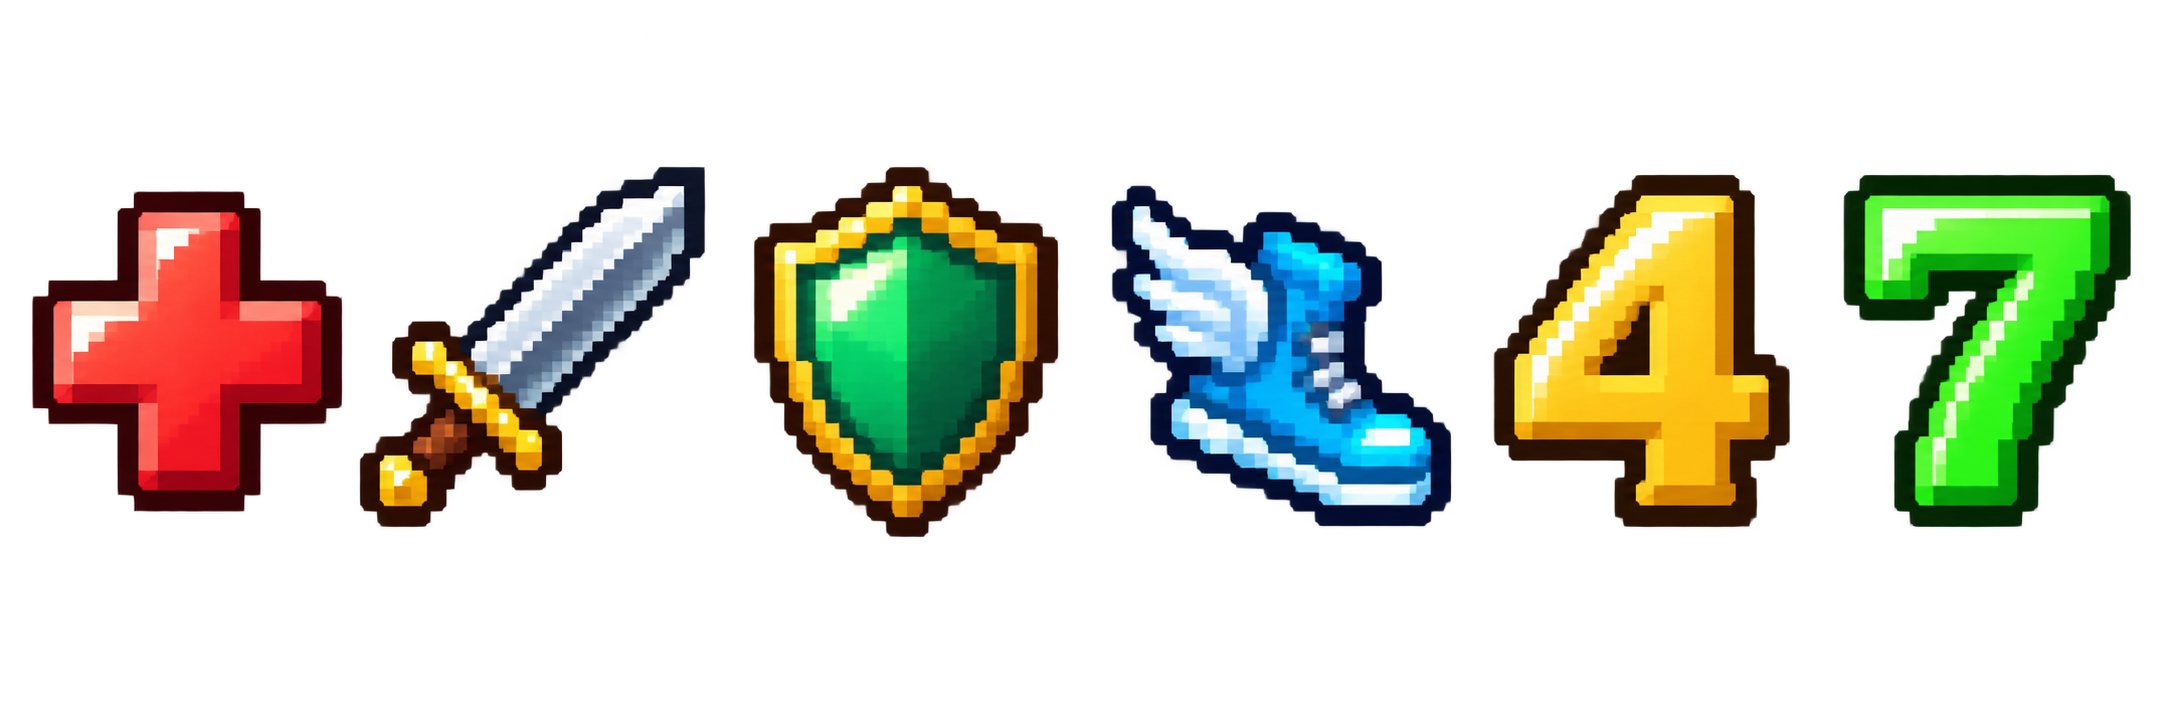
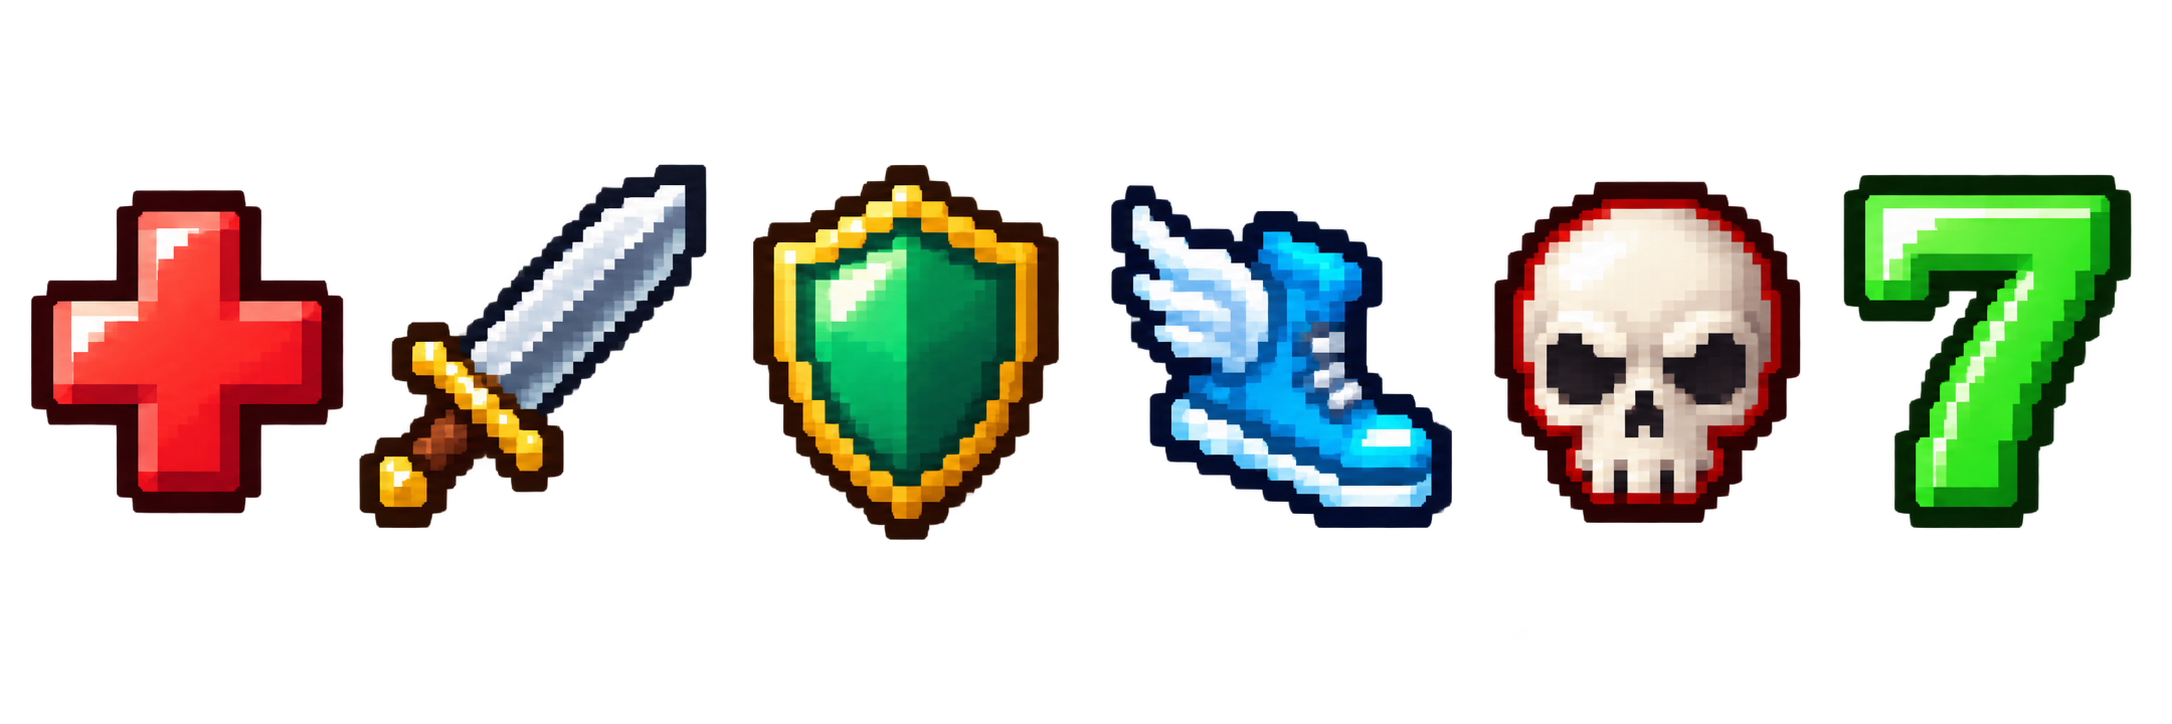
도박꾼 밸런스 패치 이제 777잭팟 사운드 넣음

diff --git a/Assets/JJW/Script/Jackpot/GamblerSlotRoulette.cs b/Assets/JJW/Script/Jackpot/GamblerSlotRoulette.cs
@@ -29,7 +29,7 @@ namespace JJW.Script.Jackpot
         [SerializeField] private AudioClip reelStopSound;
         [SerializeField, Range(0f, 1f)] private float reelStopVolume = 0.7f;
 
-        private const string SymbolSheetPath = "GamblerSlot/SlotSymbolsSkull";
+        private const string SymbolSheetPath = "GamblerSlot/SlotSymbols";
         private const string FramePath = "GamblerSlot/SlotFrame";
 
         private readonly Queue<SpinRequest> spinQueue = new Queue<SpinRequest>();

diff --git a/Assets/JJW/Script/GamblerCoinShooter.cs b/Assets/JJW/Script/GamblerCoinShooter.cs
@@ -13,7 +13,7 @@ public class GamblerCoinShooter : MonoBehaviour, ICoinDamageUp
     [Header("Fire Settings")]
     [SerializeField, Min(0f)] private float fireCooldown = 0.2f;
     [SerializeField, Min(0f)] private float spawnOffset = 0.15f;
-    [SerializeField] private float coinDamage = 20f;
+    [SerializeField] private float coinDamage = 15f;
     [SerializeField] private float damageMultiplier = 1f;
 
     private float nextFireTime;

diff --git a/Assets/JJW/Script/Jackpot/JackpotDivision.cs b/Assets/JJW/Script/Jackpot/JackpotDivision.cs
@@ -38,7 +38,7 @@ namespace JJW.Script.Jackpot
         [SerializeField] private float maximum777Chance = 10f;
 
         [Header("Guaranteed Jackpot Augment")]
-        [SerializeField] private int requiredWinningCount = 20;
+        [SerializeField] private int requiredWinningCount = 30;
 
         [Header("Old Coin Augment")]
         [SerializeField] private float oldCoinChance = 1f;
